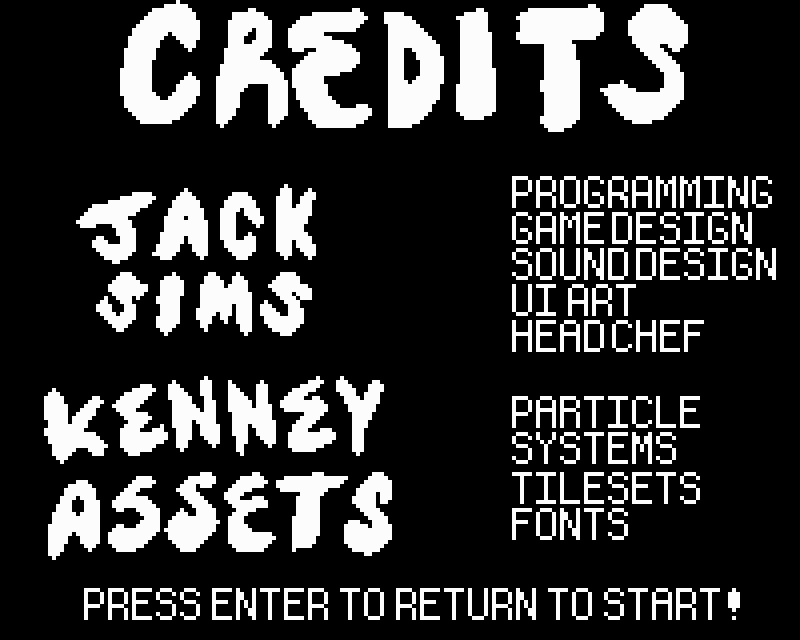
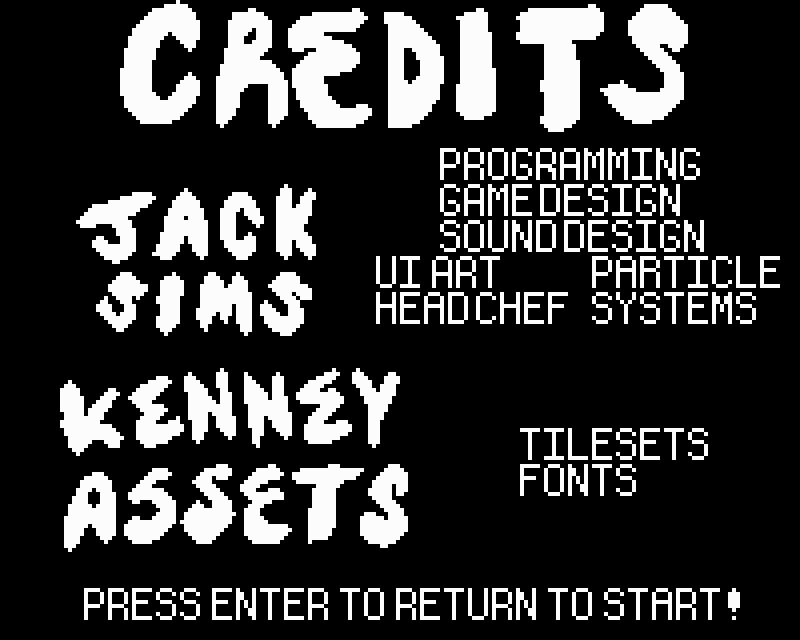
my own particle system sprites

Changed region(s): [[0.4688, 0.2188, 0.9688, 0.5625], [0.0312, 0.5625, 0.5312, 0.875], [0.625, 0.5938, 0.9062, 0.8438]]

diff --git a/src/Prefabs/Player.js b/src/Prefabs/Player.js
@@ -15,6 +15,7 @@ class Player extends Phaser.Physics.Arcade.Sprite {
         this.step = this.parent.sound.add('footfall');
         this.hop = this.parent.sound.add('jump');
         this.wSys = scene.walkingSystem
+        this.setDepth(100)
     }
     update() {
         this.isMoving = false;
@@ -61,7 +62,7 @@ class Player extends Phaser.Physics.Arcade.Sprite {
         }
 
         if (!this.body.blocked.down && this.body.velocity.y < 0) {
-            this.parent.jumpSystem.startFollow(this, this.displayWidth / 2 - 7, this.displayHeight / 2 + this.globals.ps_y, false);
+            this.parent.jumpSystem.startFollow(this, this.displayWidth / 2 - 9, this.displayHeight / 2 + 3, false);
             this.parent.jumpSystem.start();
             console.log("pop")
             this.anims.play('jump', true);

diff --git a/src/Scenes/Load.js b/src/Scenes/Load.js
@@ -62,14 +62,12 @@ class Load extends Phaser.Scene {
         this.load.audio("check", "audio/check.mp3") // Done
         this.load.audio("noBuy", "audio/noBuy.mp3") // Done
 
-        //TODO: Checkpoint Audio
-        //TODO: Enemy Kill Audio
         //TODO: Game Win Audio
         //TODO: Game Over Audio
 
         // Load frames to be used by the particle systems
-        this.load.image("coinSys", "particles/coin_pickup.png");
-        this.load.image("jumpSys", "particles/jump_spark.png");
+        this.load.image("coinSys", "particles/coin.png");
+        this.load.image("jumpSys", "particles/jump.png");
         this.load.image("runSys", "particles/run_smoke.png");
     }
     create() {

diff --git a/src/Scenes/Globals.js b/src/Scenes/Globals.js
@@ -53,7 +53,7 @@ class Globals extends Phaser.Scene {
             this.MAX_JUMPS = 3;
         }
         // Particle systems
-        this.ps_size = 0.048;
+        this.ps_size = 0.042;
         this.ps_x = 0;
         this.ps_y = 0;
         this.load_game()
